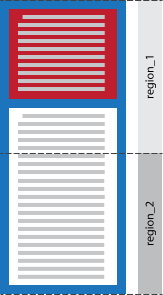
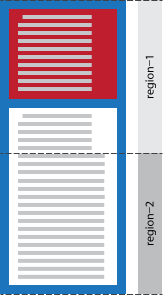
[css-regions] fix example for issue 19965

Changed region(s): [[0.5521, 0.0305, 0.6442, 0.3356], [0.5521, 0.3661, 0.6442, 0.5186], [0.8896, 0.7017, 0.9509, 0.7322]]

diff --git a/css3-regions/Overview.src.html b/css3-regions/Overview.src.html
@@ -1207,7 +1207,7 @@
             <tr>
                 <td>''flow-into: "article"''</td>
 
-                <td><code class="html">region-1</code> and <code class=
+                <td><code>region-1</code> and <code class=
                 "html">region-2</code></td>
 
                 <td>''region-fragment: auto''<br>
@@ -1311,51 +1311,48 @@
         <li><a href="http://www.w3.org/TR/css3-background/#the-box-shadow">'box-shadow' property</a></li>
         <li><a href="http://www.w3.org/TR/css3-background/#the-box-decoration-break">'box-decoration-break' property</a></li>
         <li><a href="http://www.w3.org/TR/CSS2/visudet.html#the-width-property">'width' property</a></li>
-    </ol>
-    
-    <div class="issue-marker" data-bug_id="19965" data-bug_status="NEW">
-        <a href=
-        "https://www.w3.org/Bugs/Public/show_bug.cgi?id=19965">Issue-19965</a>
-
-        <div class="issue-details">
-            <p class="short-desc">Rework region styling example to use color changes</p>
-        </div>
-    </div>    
+    </ol> 
 
     <div class="example" id="region-style-example">
         <p>In the following example, the <span>named flow</span> 'article-flow' flows
         through 'region-1' and 'region-2'.</p>
         <pre>
-&lt;style&gt;
-    #div-1 {
-        <strong>flow-into: article-flow;</strong>
-    }
-    
-    #region-1, #region-2 {
-        <strong>flow-from: article-flow;</strong>
-    }
+&lt;body is="x-region-style-example"&gt;
+  &lt;div id="div-1"&gt;
+      &lt;p id="p-1"&gt;...&lt;/p&gt;
+      &lt;p id="p-2"&gt;...&lt;/p&gt;
+  &lt;/div&gt;
+&lt;/body&gt;
 
-    /* region style "RSA" */
-    <strong>@region #region-1, #region-2</strong> {
+&lt;element name="x-region-style-example" extends="body"&gt;
+  &lt;template&gt;
+    &lt;style&gt;
+      #div-1 {
+        <strong>flow-into: article-flow;</strong>
+      }
+
+      #region-1, #region-2 {
+        <strong>flow-from: article-flow;</strong>
+      }
+
+      /* region style "RSA" */
+      <strong>@region #region-1, #region-2</strong> {
         div {...}
         p {...}
-    }
-    
-    /* region style "RSB" */
-    <strong>@region #region-1</strong> {
-        p {...}
-    }
-        
-&lt;/style&gt;
+      }
 
-&lt;div id="div-1"&gt;
-    &lt;p id="p-1"&gt;...&lt;/p&gt;
-    &lt;p id="p-2"&gt;...&lt;/p&gt;
-&lt;/div&gt;
+      /* region style "RSB" */
+      <strong>@region #region-1</strong> {
+        p {
+          margin-right: 5em;
+        }
+      }
+    &lt;/style&gt;
 
-&lt;div id="region-1"&gt;&lt;/div&gt;
-&lt;div id="region-2"&gt;&lt;/div&gt;
-        
+    &lt;div id="region-1"&gt;&lt;/div&gt;
+    &lt;div id="region-2"&gt;&lt;/div&gt;
+  &lt;/template&gt;
+&lt;/element&gt;        
 </pre>
 
         <div id="region_styling_illustration">
@@ -1384,27 +1381,34 @@
             </ul>
         </div>
 
-        <p>The region style ''RSA'' applies to flow content that is laid out in either
-        'region-1' or 'region-2'.</p>
+        <p>The region style ''RSA'' applies 
+          to flow content that is laid out 
+          in either 'region-1' or 'region-2'.</p>
 
-        <p>The first rule set ''div {...}'' applies to all <code class=
-        "html">&lt;div&gt;</code> elements that fit partially or fully into 'region-1' or
-        'region-2'. <code class="html">div-1</code> is split between 'region-1' and
-        'region-2' and gets the style from this style rule.</p>
+        <p>The first rule set ''div {...}'' applies 
+          to all <code>&lt;div&gt;</code> elements 
+          that fit partially or fully 
+          into 'region-1' or 'region-2'. 
+          'div-1' is split between 'region-1' 
+          and 'region-2' and gets the style 
+          from this style rule.</p>
 
-        <p>The second rule set ''p {...}'' applies to all <code class=
-        "html">&lt;p&gt;</code> elements that fit into 'region-1' or
-        'region-2'. In our example, both <code class="html">p-1</code> 
-        and <code class="html">p-2</code> are selected.</p>
+        <p>The second rule set ''p {...}'' applies 
+          to all <code>&lt;p&gt;</code> elements 
+          that fit into 'region-1' or 'region-2'. 
+          In our example, 
+          both 'p-1'and 'p-2' are selected.</p>
 
-        <p>The region style ''RSB'' applies to flow content that fits in
-        'region-1'.</p>
+        <p>The region style ''RSB'' applies 
+          to flow content that fits in 'region-1'.</p>
 
-        <p>The first rule set ''p {...}'' matches <code class="html">p-1</code>
-        and <code class="html">p-2</code> 
-        because these paragraphs flow into 'region-1'. Only the fragment of 
-        <code class="html">p-2</code> that flows into <code class="html">region-1</code>
-        is styled with this rule.</p>
+        <p>The first rule set ''p {...}'' 
+          matches 'p-1' and 'p-2' 
+          because these paragraphs 
+          flow into 'region-1'. 
+          Only the fragment of 'p-2' 
+          that flows into 'region-1' 
+          is styled with this rule.</p>
     </div>
 
 

diff --git a/css3-regions/Overview.html b/css3-regions/Overview.html
@@ -1356,8 +1356,7 @@
      <tr>
       <td>‘<code class=css>flow-into: "article"</code>’
 
-      <td><code class=html>region-1</code> and <code
-       class=html>region-2</code>
+      <td><code>region-1</code> and <code class=html>region-2</code>
 
       <td>‘<code class=css>region-fragment: auto</code>’<br>
        ‘<code class=css>overflow:visible</code>’
@@ -1503,50 +1502,48 @@
     class=property>width</code>’ property</a>
   </ol>
 
-  <div class=issue-marker data-bug_id=19965 data-bug_status=NEW> <a
-   href="https://www.w3.org/Bugs/Public/show_bug.cgi?id=19965">Issue-19965</a>
-
-   <div class=issue-details>
-    <p class=short-desc>Rework region styling example to use color changes
-   </div>
-  </div>
-
   <div class=example id=region-style-example>
    <p>In the following example, the <a href="#named-flow0">named flow</a>
     ‘<code class=property>article-flow</code>’ flows through ‘<code
     class=css>region-1</code>’ and ‘<code class=css>region-2</code>’.
 
    <pre>
-&lt;style&gt;
-    #div-1 {
-        <strong>flow-into: article-flow;</strong>
-    }
-    
-    #region-1, #region-2 {
-        <strong>flow-from: article-flow;</strong>
-    }
+&lt;body is="x-region-style-example"&gt;
+  &lt;div id="div-1"&gt;
+      &lt;p id="p-1"&gt;...&lt;/p&gt;
+      &lt;p id="p-2"&gt;...&lt;/p&gt;
+  &lt;/div&gt;
+&lt;/body&gt;
 
-    /* region style "RSA" */
-    <strong>@region #region-1, #region-2</strong> {
+&lt;element name="x-region-style-example" extends="body"&gt;
+  &lt;template&gt;
+    &lt;style&gt;
+      #div-1 {
+        <strong>flow-into: article-flow;</strong>
+      }
+
+      #region-1, #region-2 {
+        <strong>flow-from: article-flow;</strong>
+      }
+
+      /* region style "RSA" */
+      <strong>@region #region-1, #region-2</strong> {
         div {...}
         p {...}
-    }
-    
-    /* region style "RSB" */
-    <strong>@region #region-1</strong> {
-        p {...}
-    }
-        
-&lt;/style&gt;
+      }
 
-&lt;div id="div-1"&gt;
-    &lt;p id="p-1"&gt;...&lt;/p&gt;
-    &lt;p id="p-2"&gt;...&lt;/p&gt;
-&lt;/div&gt;
+      /* region style "RSB" */
+      <strong>@region #region-1</strong> {
+        p {
+          margin-right: 5em;
+        }
+      }
+    &lt;/style&gt;
 
-&lt;div id="region-1"&gt;&lt;/div&gt;
-&lt;div id="region-2"&gt;&lt;/div&gt;
-        
+    &lt;div id="region-1"&gt;&lt;/div&gt;
+    &lt;div id="region-2"&gt;&lt;/div&gt;
+  &lt;/template&gt;
+&lt;/element&gt;        
 </pre>
 
    <div id="region_styling_illustration"> <img
@@ -1573,26 +1570,26 @@
     or ‘<code class=css>region-2</code>’.
 
    <p>The first rule set ‘<code class=css>div {...}</code>’ applies to
-    all <code class=html>&lt;div&gt;</code> elements that fit partially or
-    fully into ‘<code class=css>region-1</code>’ or ‘<code
-    class=css>region-2</code>’. <code class=html>div-1</code> is split
+    all <code>&lt;div&gt;</code> elements that fit partially or fully into
+    ‘<code class=css>region-1</code>’ or ‘<code
+    class=css>region-2</code>’. ‘<code class=css>div-1</code>’ is split
     between ‘<code class=css>region-1</code>’ and ‘<code
     class=css>region-2</code>’ and gets the style from this style rule.
 
    <p>The second rule set ‘<code class=css>p {...}</code>’ applies to all
-    <code class=html>&lt;p&gt;</code> elements that fit into ‘<code
+    <code>&lt;p&gt;</code> elements that fit into ‘<code
     class=css>region-1</code>’ or ‘<code class=css>region-2</code>’. In
-    our example, both <code class=html>p-1</code> and <code
-    class=html>p-2</code> are selected.
+    our example, both ‘<code class=css>p-1</code>’and ‘<code
+    class=css>p-2</code>’ are selected.
 
    <p>The region style ‘<code class=css>RSB</code>’ applies to flow
     content that fits in ‘<code class=css>region-1</code>’.
 
-   <p>The first rule set ‘<code class=css>p {...}</code>’ matches <code
-    class=html>p-1</code> and <code class=html>p-2</code> because these
-    paragraphs flow into ‘<code class=css>region-1</code>’. Only the
-    fragment of <code class=html>p-2</code> that flows into <code
-    class=html>region-1</code> is styled with this rule.
+   <p>The first rule set ‘<code class=css>p {...}</code>’ matches
+    ‘<code class=css>p-1</code>’ and ‘<code class=css>p-2</code>’
+    because these paragraphs flow into ‘<code class=css>region-1</code>’.
+    Only the fragment of ‘<code class=css>p-2</code>’ that flows into
+    ‘<code class=css>region-1</code>’ is styled with this rule.
   </div>
 
   <div class=issue-marker data-bug_id=15734 data-bug_status=NEW> <a
